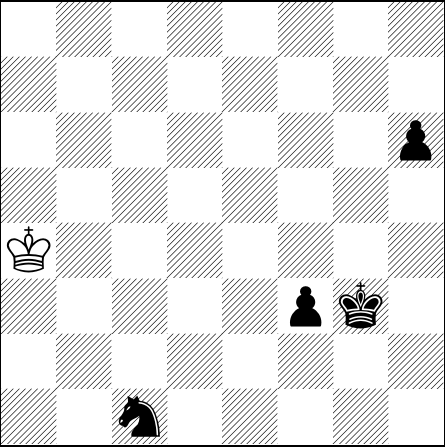
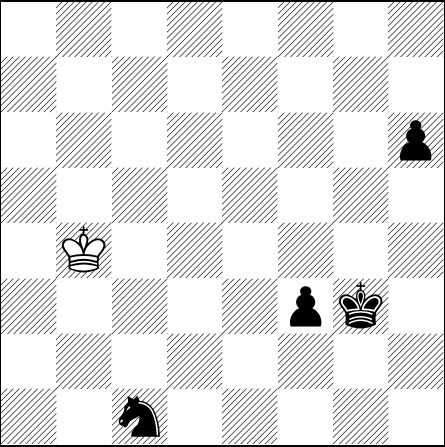
[automated] Regenerate text/pdf for chessboard

Changed region(s): [[0.0, 0.4944, 0.2337, 0.6107]]

diff --git a/default_filepath.tex b/default_filepath.tex
@@ -13,6 +13,6 @@
 \normalsize%
 \setchessboard{showmover=false}%
 \newgame%
-\fenboard{8/8/7p/8/K7/5pk1/8/2n5 w - - 4 172}%
+\fenboard{8/8/7p/8/1K6/5pk1/8/2n5 b - - 5 172}%
 \chessboard%
 \end{document}
